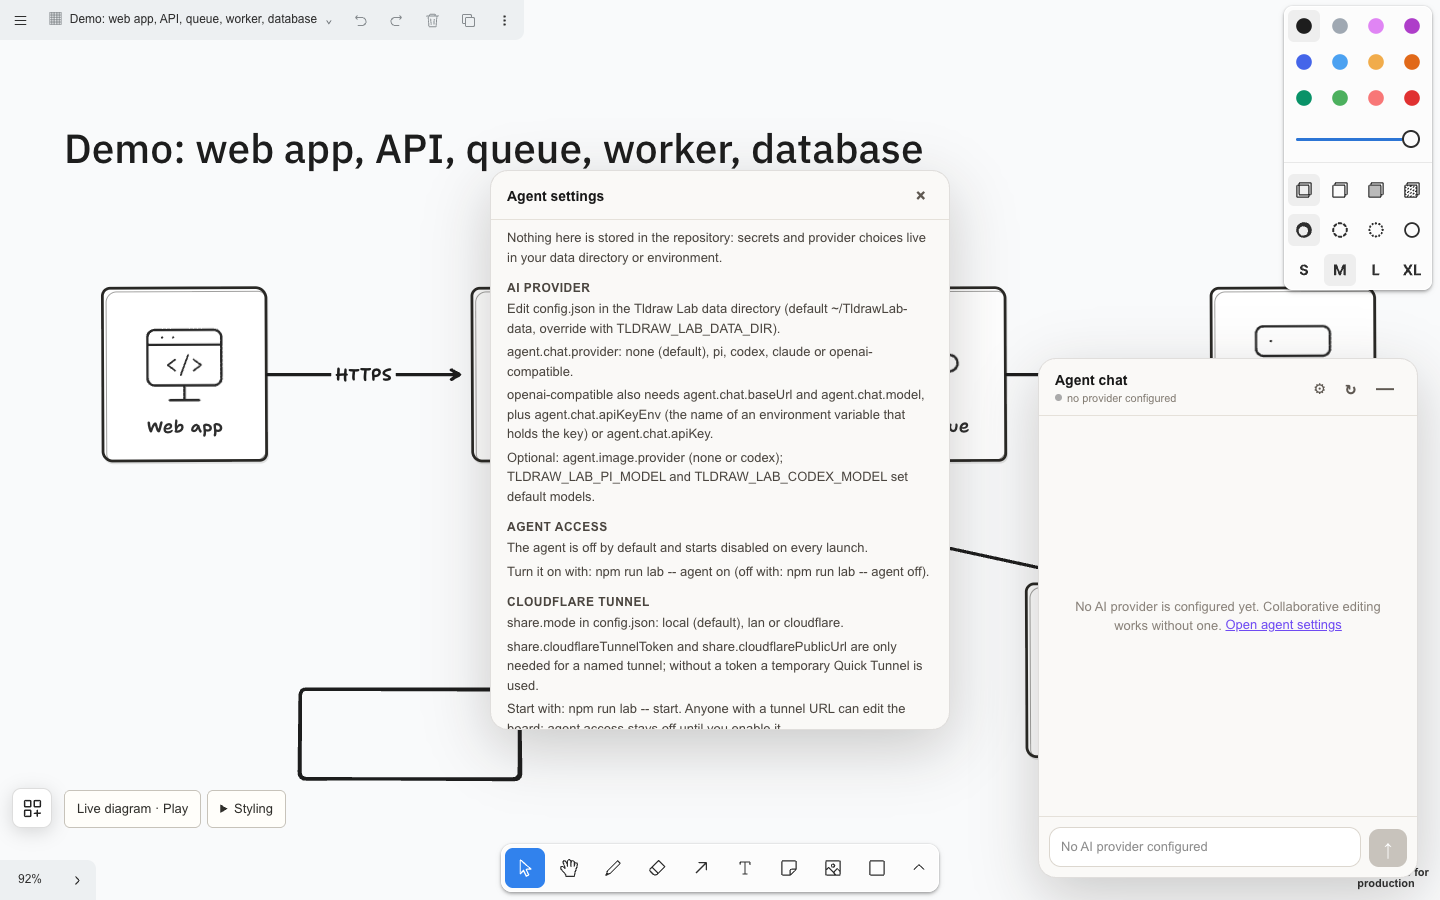
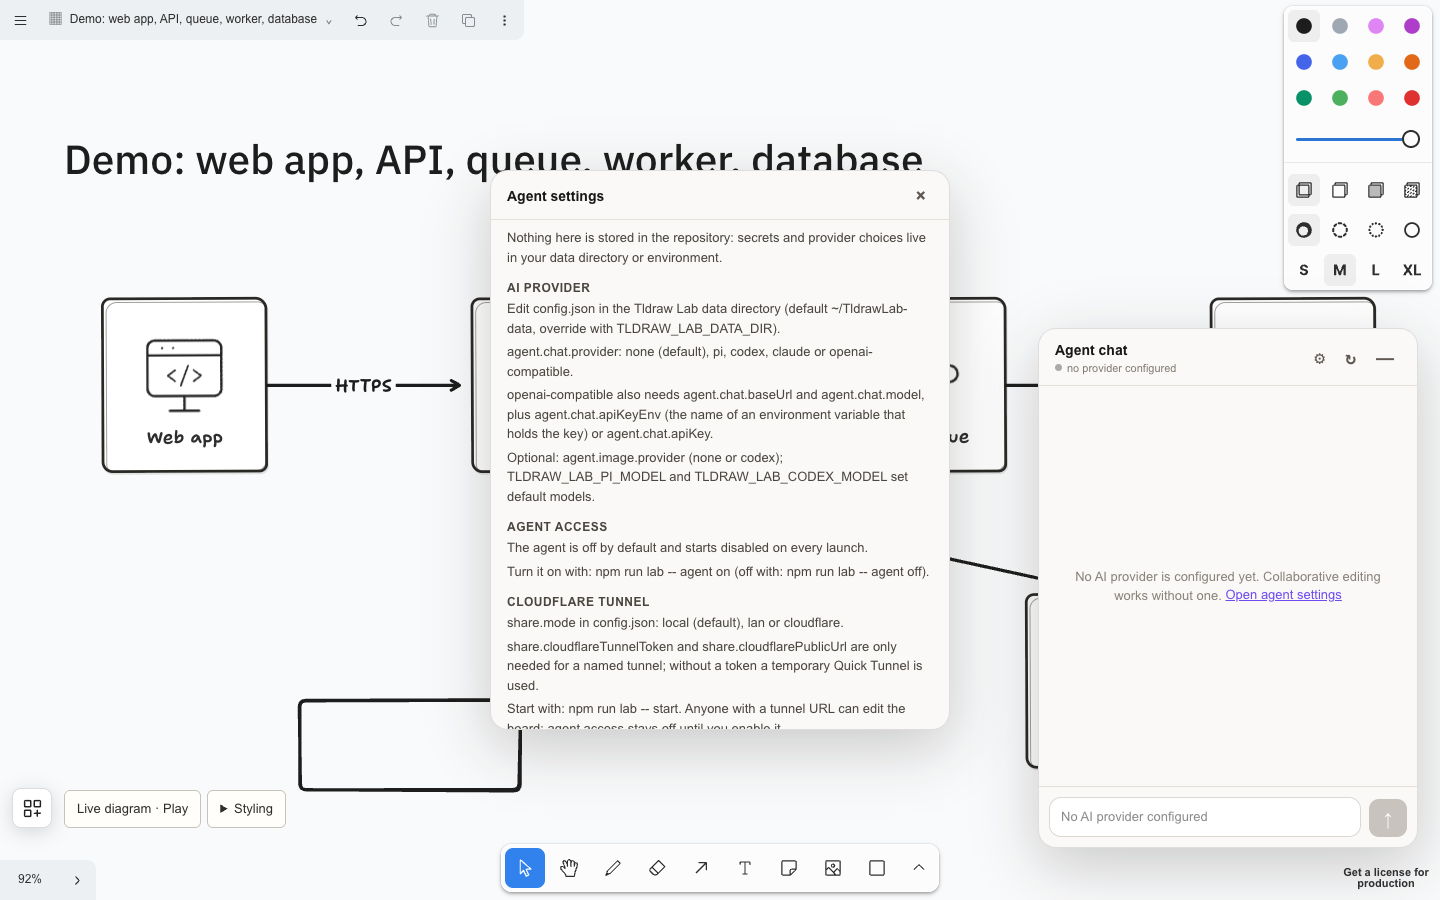
Address review: README screenshots, short windows, AGENTS wording
- Re-capture walkthrough screenshots 02-05 with the chat clear of the watermark
- Size the panel min-height for its new bottom offset so short windows keep the header on screen
- On narrow screens move the panel sideways only; the bubble already clears the watermark
- Say what the port leak check covers; drop the archive branch hint

diff --git a/app/workspace.css b/app/workspace.css
@@ -829,7 +829,7 @@ kbd {
   }
 }
 
-/* Bubble and panel sit above tldraw's bottom-right "Get a license" watermark, which must stay visible. */
+/* Bubble and panel keep clear of tldraw's bottom-right "Get a license" watermark, which must stay visible. */
 .agent-chat-bubble {
   align-items: center;
   background: #24211f;
@@ -869,7 +869,7 @@ kbd {
   display: flex;
   flex-direction: column;
   height: min(520px, calc(100vh - 352px));
-  min-height: min(300px, calc(100vh - 44px));
+  min-height: min(300px, calc(100vh - 104px));
   overflow: hidden;
   position: fixed;
   right: 22px;
@@ -1021,11 +1021,11 @@ kbd {
 }
 @media (max-width: 600px) {
   .agent-chat-panel {
-    bottom: 44px;
+    bottom: 8px;
     right: 16px;
   }
   .agent-chat-bubble {
-    bottom: 48px;
+    bottom: 16px;
     right: 16px;
   }
 }

diff --git a/AGENTS.md b/AGENTS.md
@@ -6,9 +6,9 @@ Build and verify the local collaborative diagram laboratory described in `README
 
 ## Source of truth
 
-This repository is the only development repository. Make every change here, on `main` or a branch merged into it. There is no upstream to sync from and no export step: earlier copies of this code are archives, and nothing is ported from them without a leak check against the rules below.
+This repository is the only development repository. Make every change here, on `main` or a branch merged into it. There is no upstream to sync from and no export step: earlier copies of this code are archives, and nothing is ported from them without a leak check for private data (names, hosts, paths, real boards).
 
-Local branches under `archive/` hold history that must never be published. Push `main` and feature branches only, never `--all` or `--mirror`.
+Push only `main` and feature branches, never `--all` or `--mirror`.
 
 ## Context
 
